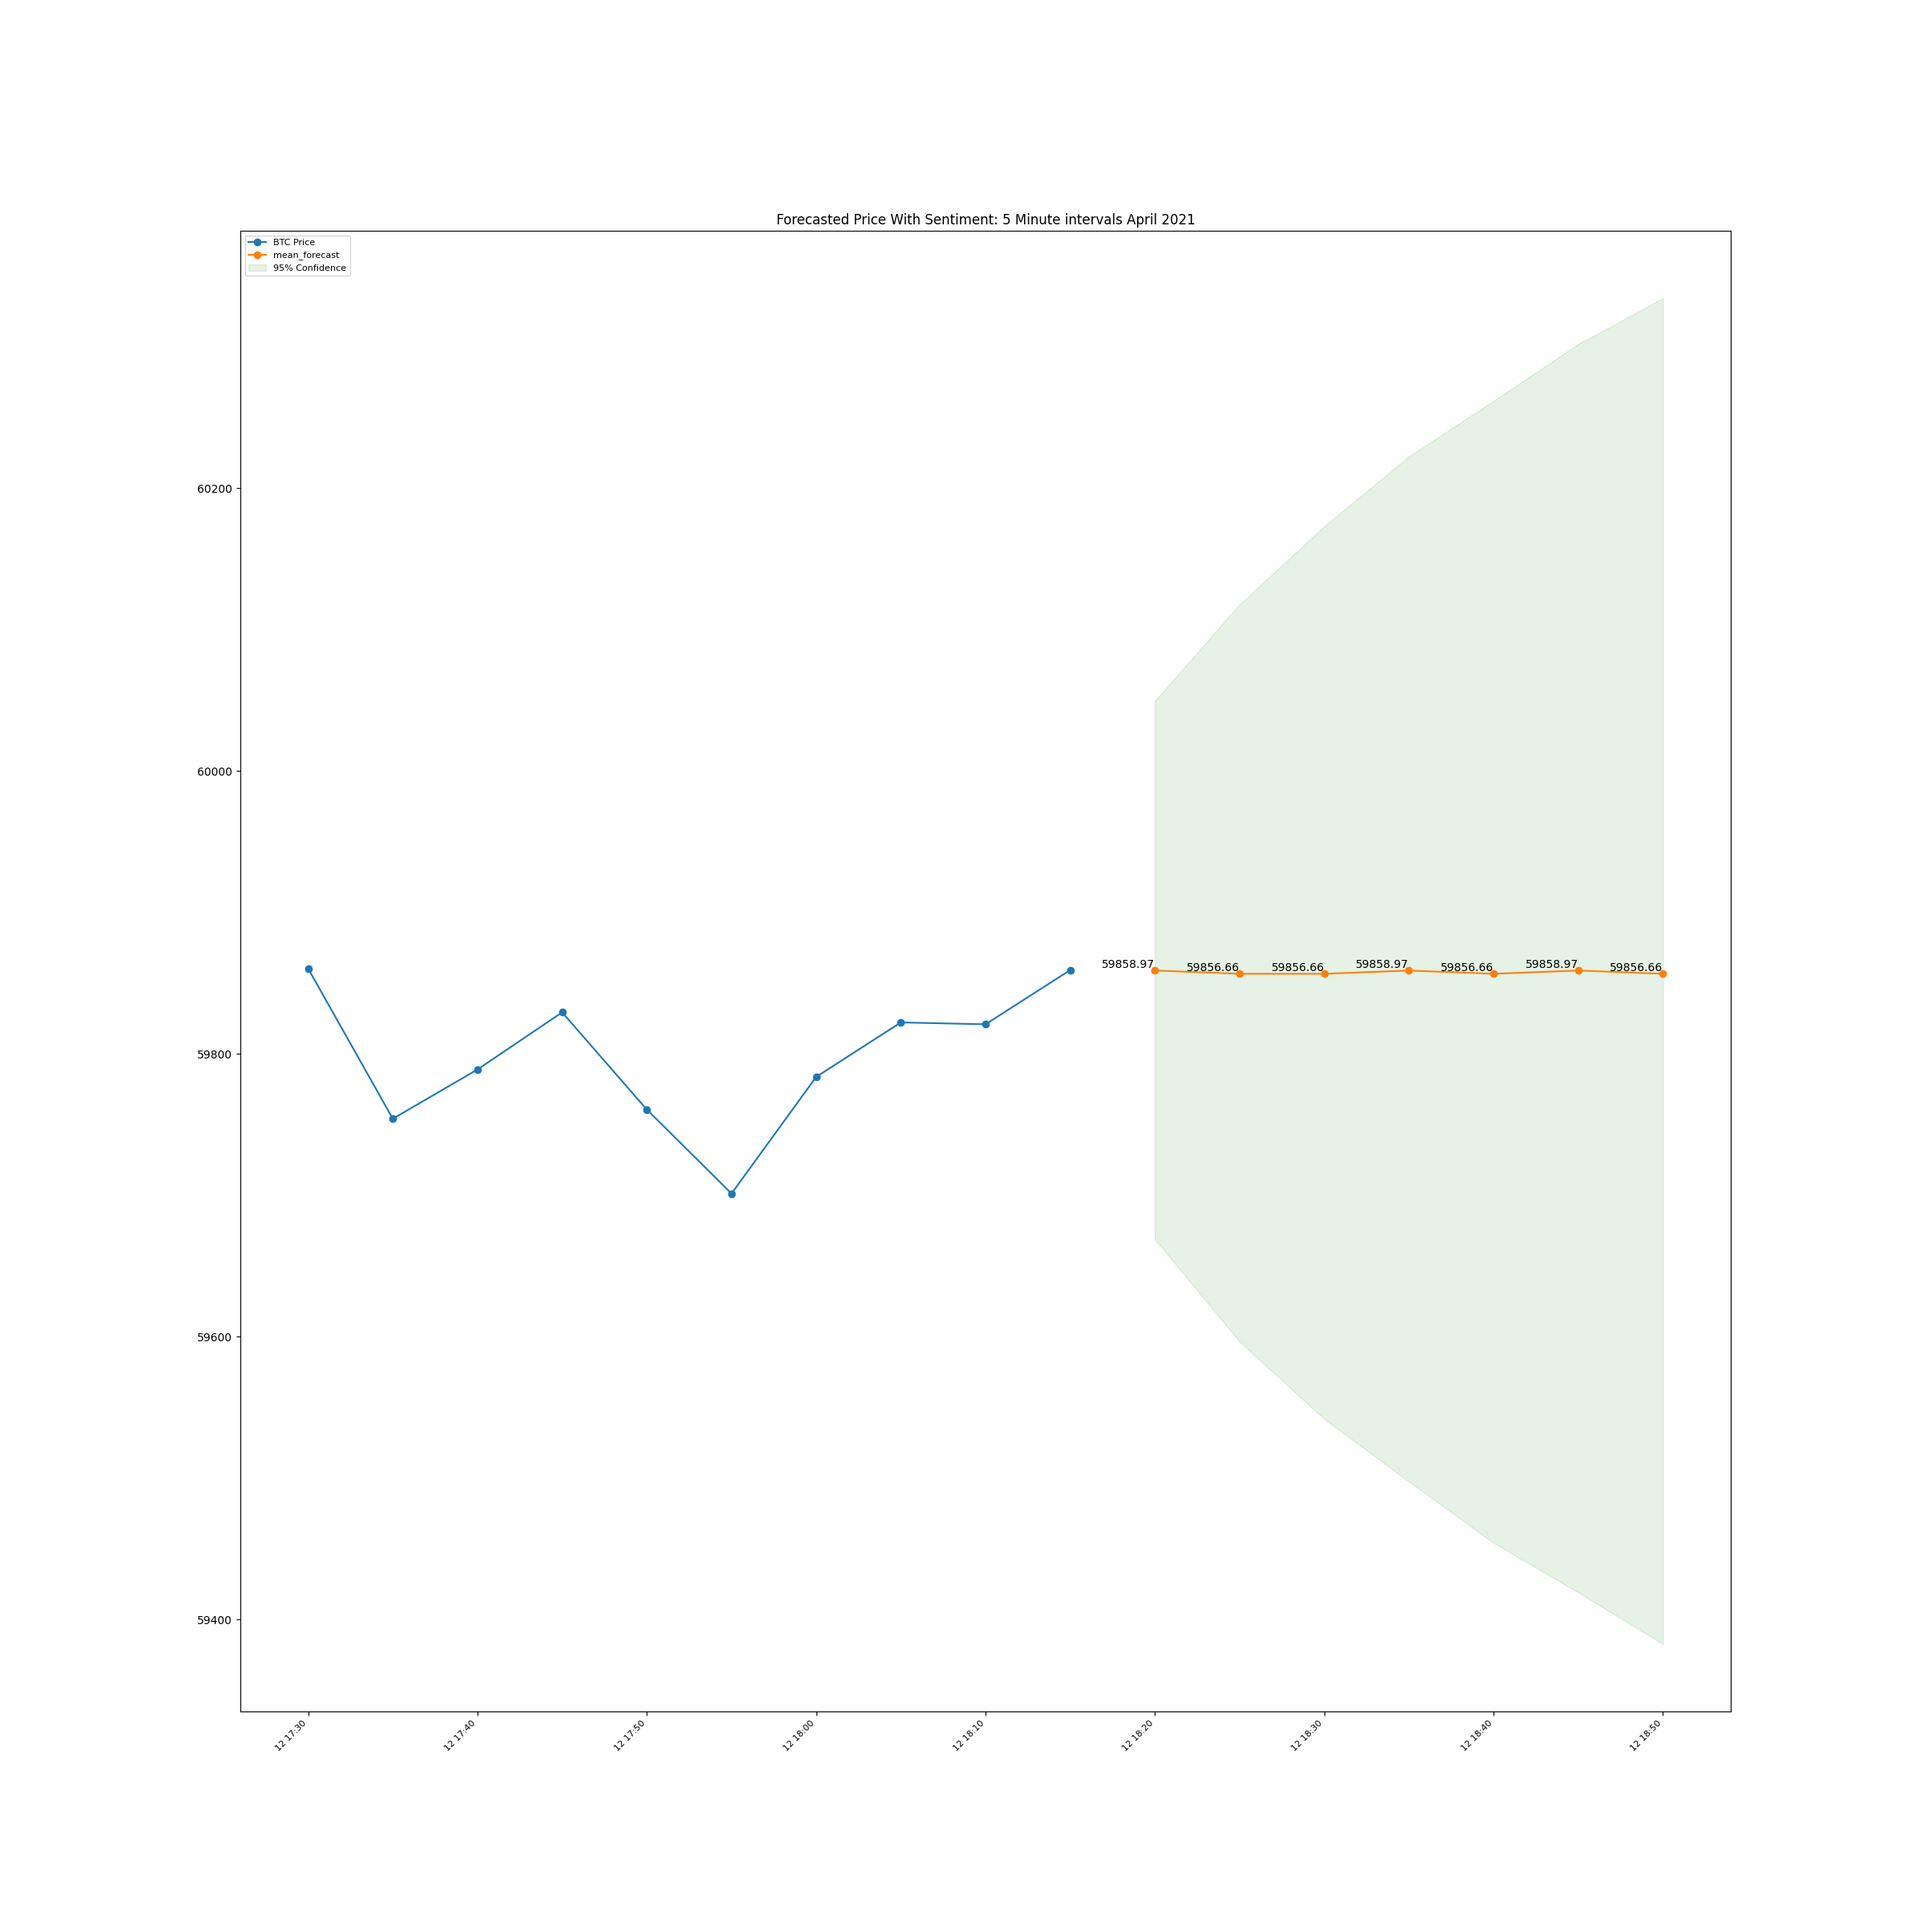
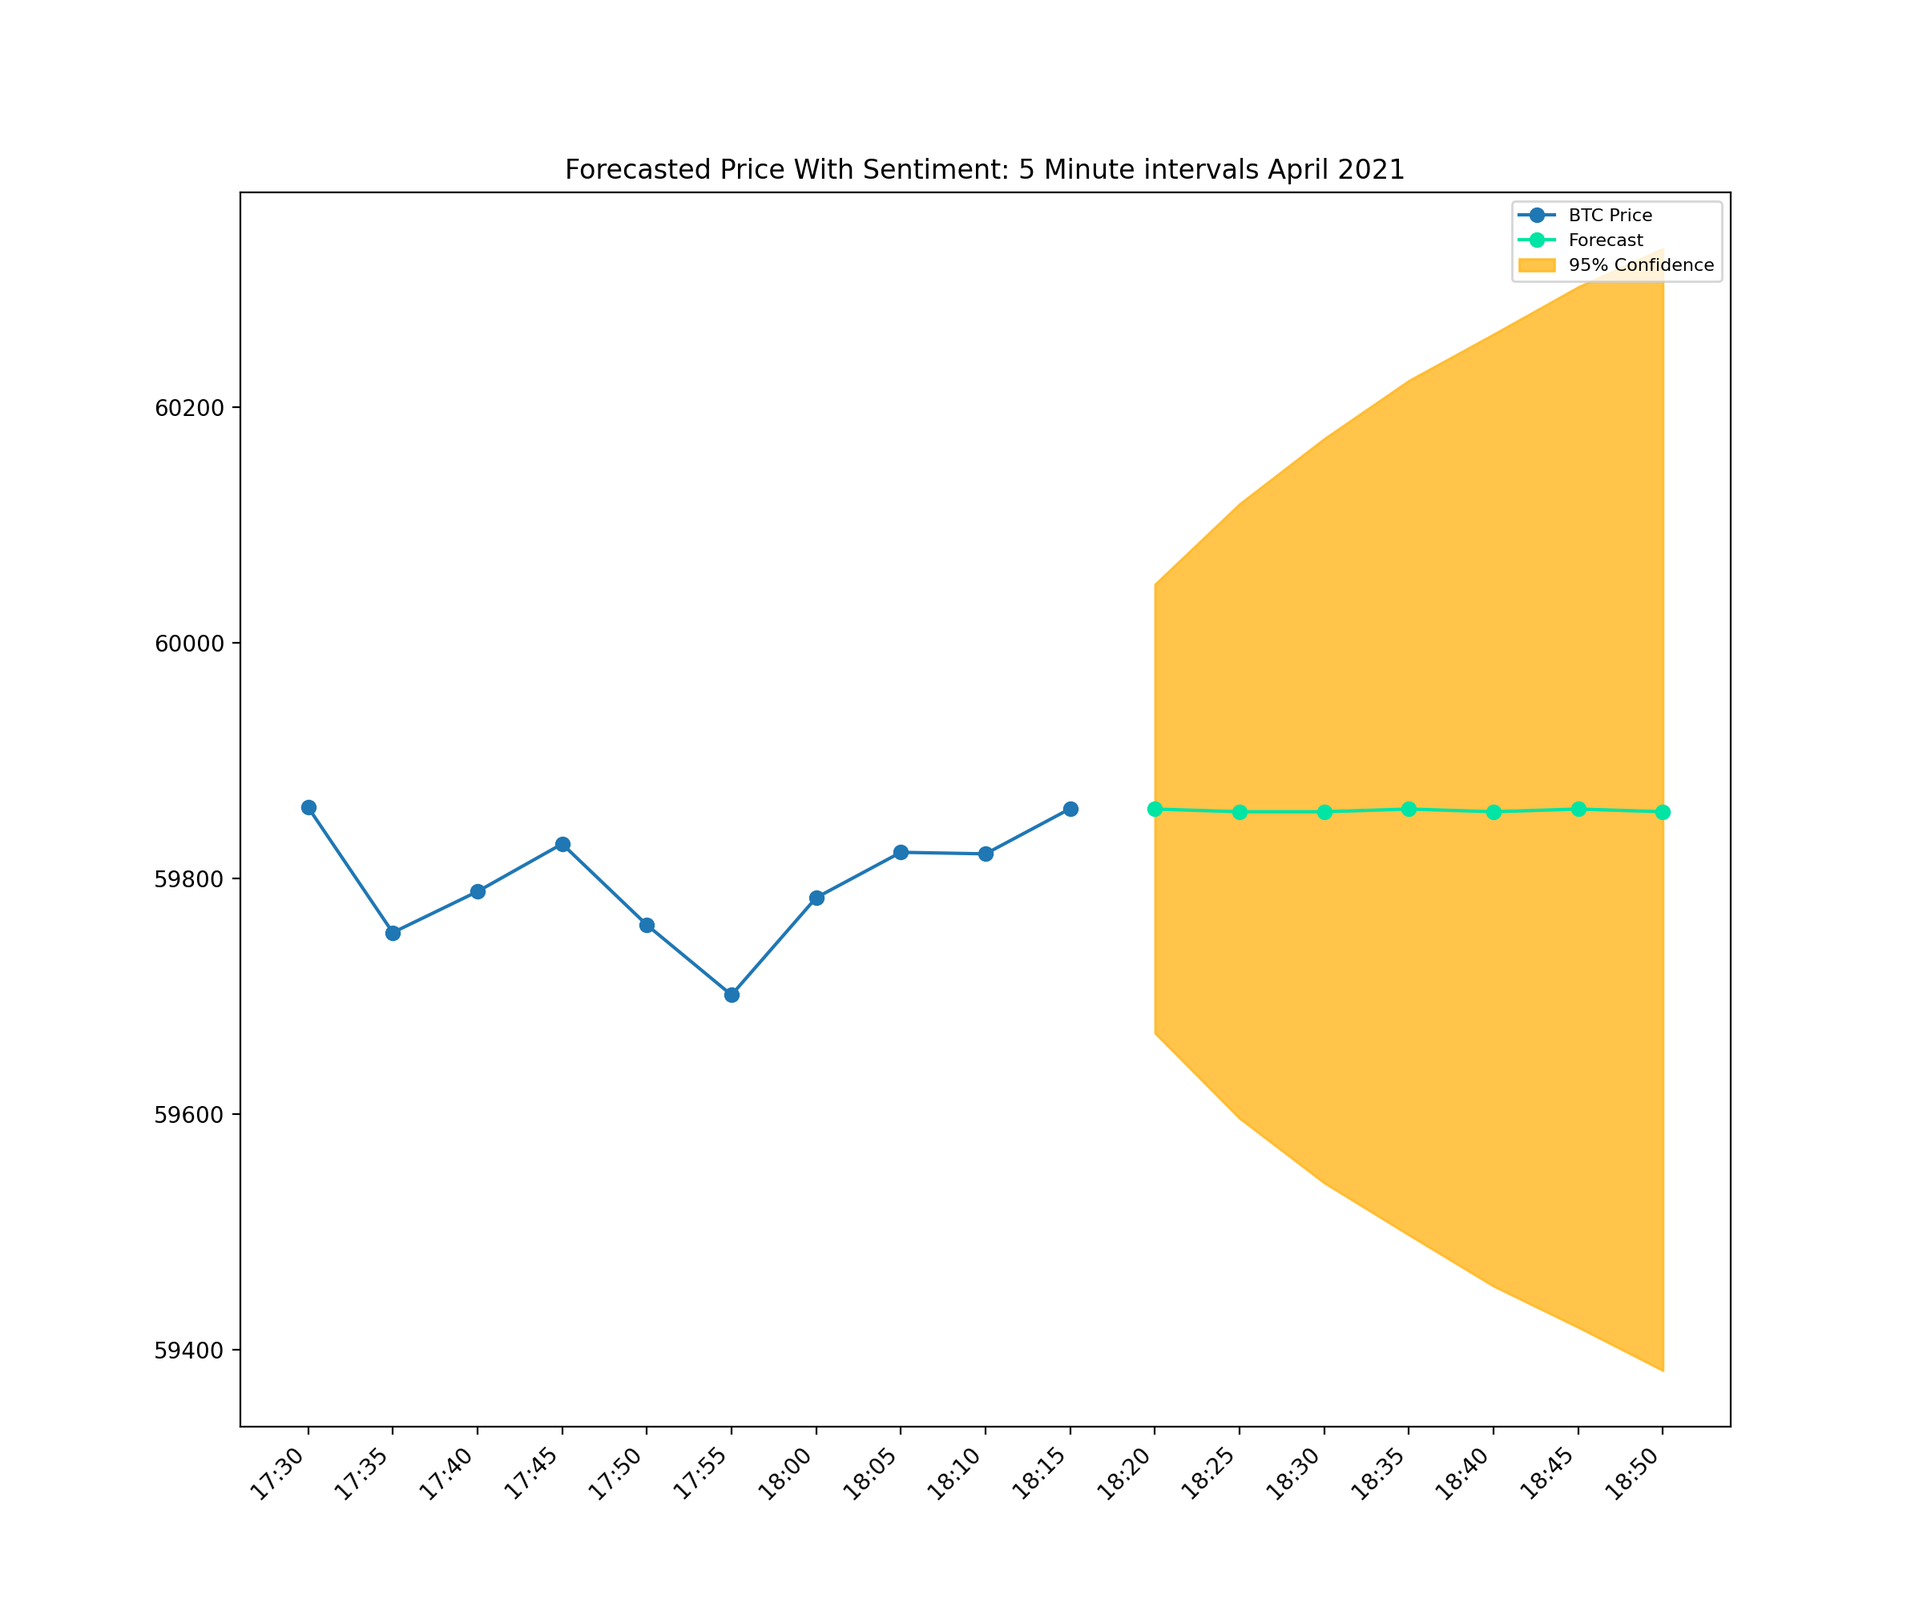
refining the charts config

diff --git a/prediction-mechanism/prediction_mechanism.py b/prediction-mechanism/prediction_mechanism.py
@@ -94,9 +94,8 @@ def model(df_index, namePlot, p_d_q, isARIMAX=False, exog_df = None):
     fc_lower = fc_summary['mean_ci_lower']
     fc_upper = fc_summary['mean_ci_upper']
     
-    plt.figure(figsize=(24, 24), dpi=100)
+    plt.figure(figsize=(12, 10), dpi=200)
     plt.plot(df_index.index[-10:], df_index['Adj Close'][-10:], label='BTC Price', marker='o')
-
     start_datetime = datetime.datetime(2021, 4, 12, 18, 20, 0)
     fc_value = np.exp(fc_mean)
     mae, mse, rmse = evaluate_forecast(initial_df['Adj Close'][-7:], fc_value)
@@ -104,14 +103,15 @@ def model(df_index, namePlot, p_d_q, isARIMAX=False, exog_df = None):
     print('Mean Absolute Error (MAE):', mae)
     print('Mean Squared Error (MSE):', mse)
     print('Root Mean Squared Error (RMSE):', rmse)
+    past_10_days = [datetime.datetime(2021, 4, 12, 17, 30, 0) + datetime.timedelta(minutes=5 * x) for x in range(10)]
     future_7_days = [start_datetime + datetime.timedelta(minutes=5 * x) for x in range(7)]
-    plt.plot(future_7_days, fc_value, label='mean_forecast', linewidth=1.5, marker='o')
-    plt.fill_between(future_7_days, np.exp(fc_lower), np.exp(fc_upper), color='g', alpha=.1, label='95% Confidence')
-    for i, txt in enumerate(np.exp(fc_mean)):
-        plt.text(future_7_days[i], txt, f'{round(txt, 2)}', ha='right', va='bottom')
+    plt.plot(future_7_days, fc_value, label='Forecast', linewidth=1.5, marker='o', color='#00E4A4')
+    plt.fill_between(future_7_days, np.exp(fc_lower), np.exp(fc_upper), color='#ffb61c', alpha=.8, label='95% Confidence')
+    # for i, txt in enumerate(np.exp(fc_mean)):
+    #     plt.text(future_7_days[i], txt + 140, f'{round(txt, 2)}', ha='left', va='top', rotation=35, fontsize=8)
     plt.title(f'Forecasted Price {namePlot}: 5 Minute intervals April 2021')
-    plt.xticks(rotation=45, ha='right', fontsize=8)
-    plt.legend(loc='upper left', fontsize=8)
+    plt.xticks((past_10_days+ future_7_days),[dt.strftime('%H:%M') for dt in (past_10_days+ future_7_days)], rotation=45, ha='right', fontsize=10)
+    plt.legend(loc='upper right', fontsize=8)
     plt.savefig(f'visualizations/{namePlot}')
     plt.show()
 
